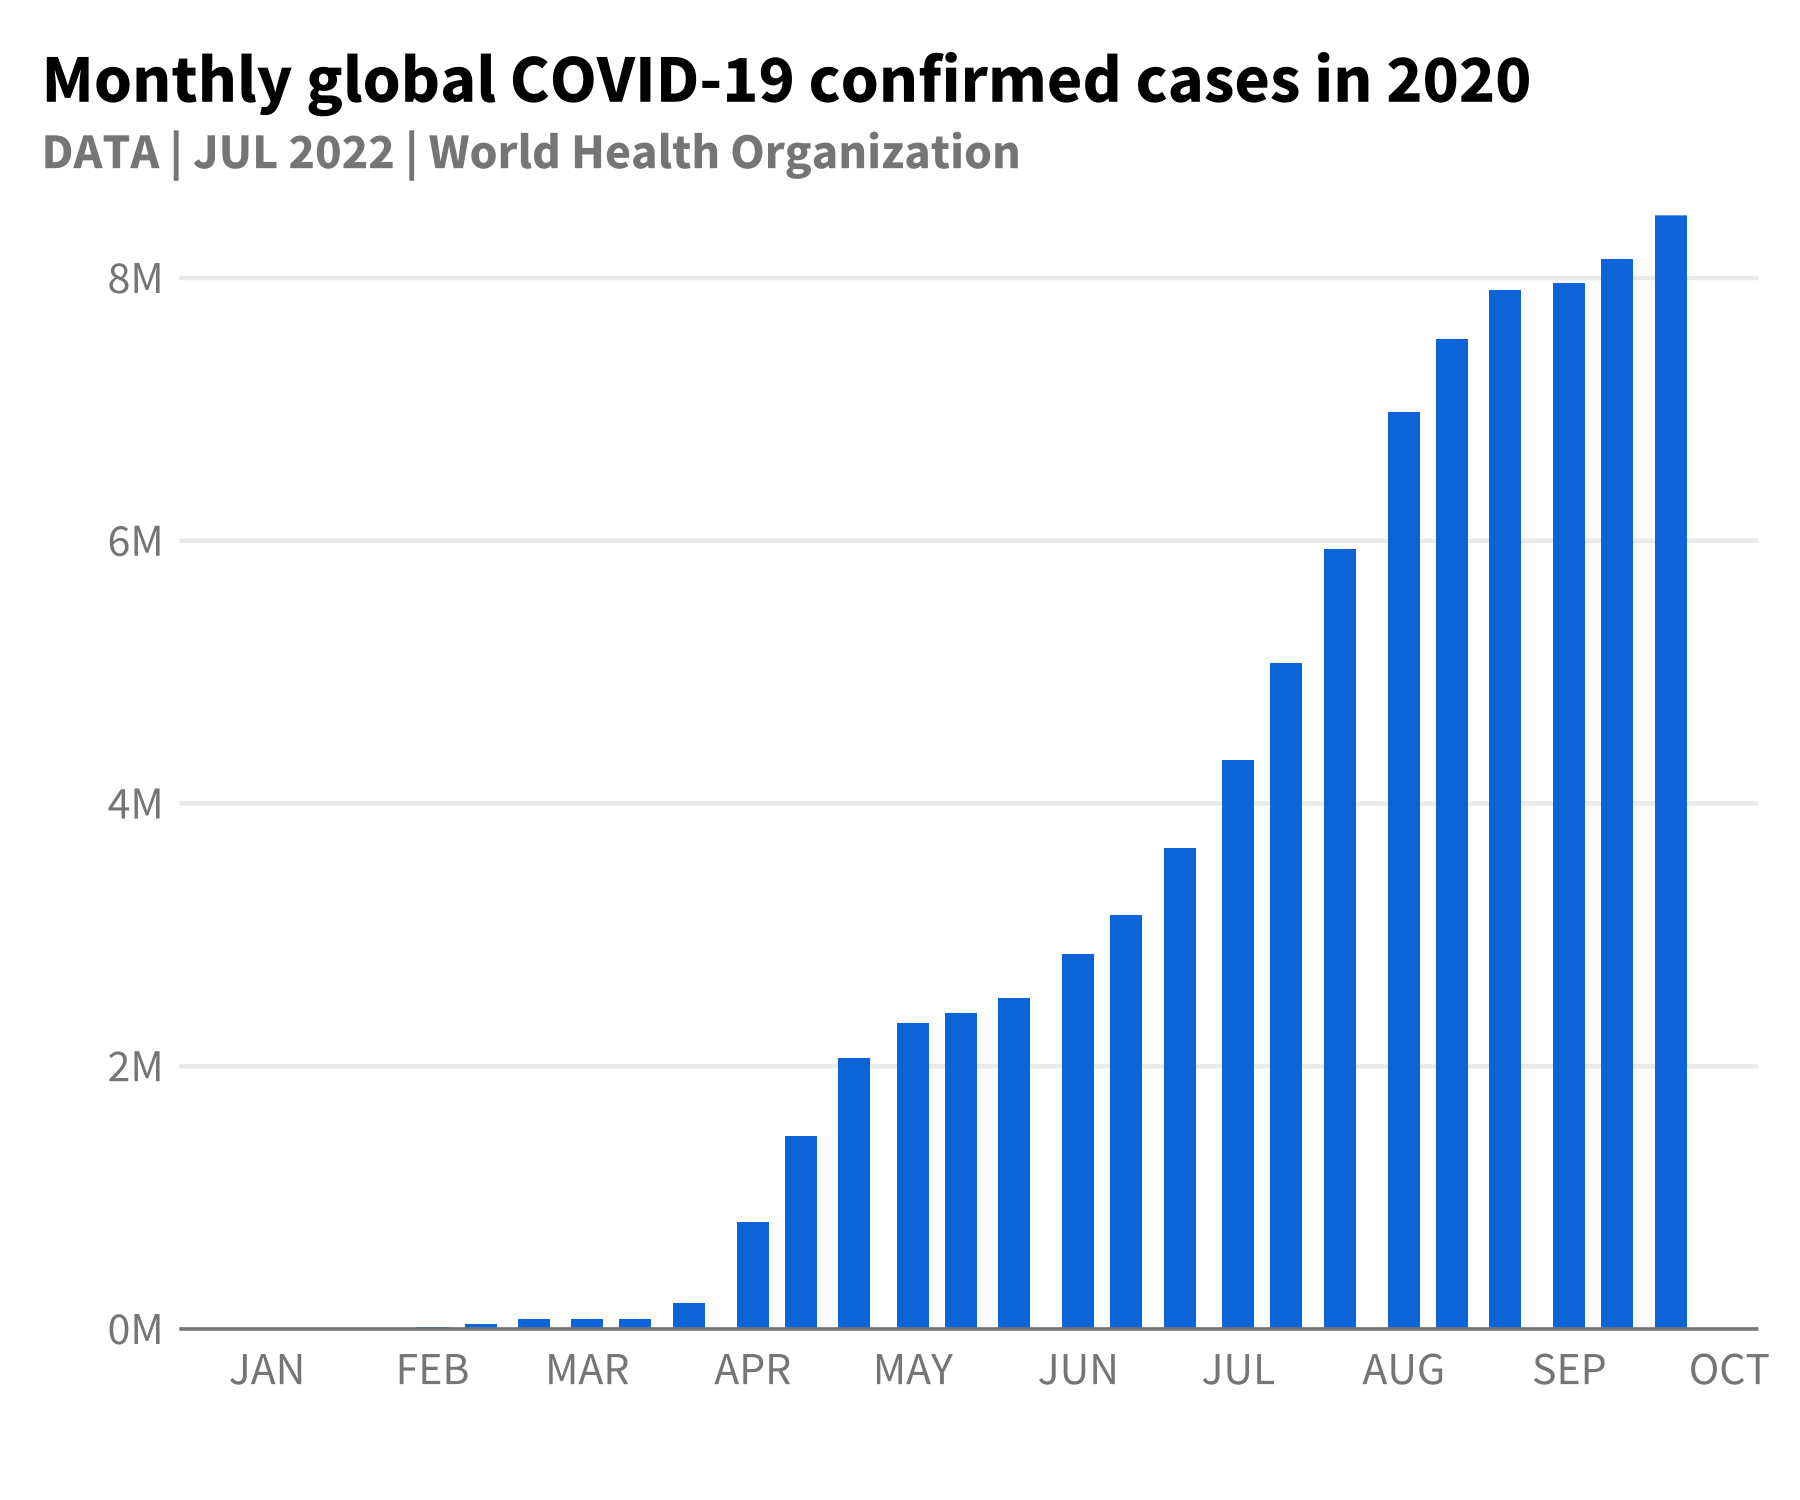
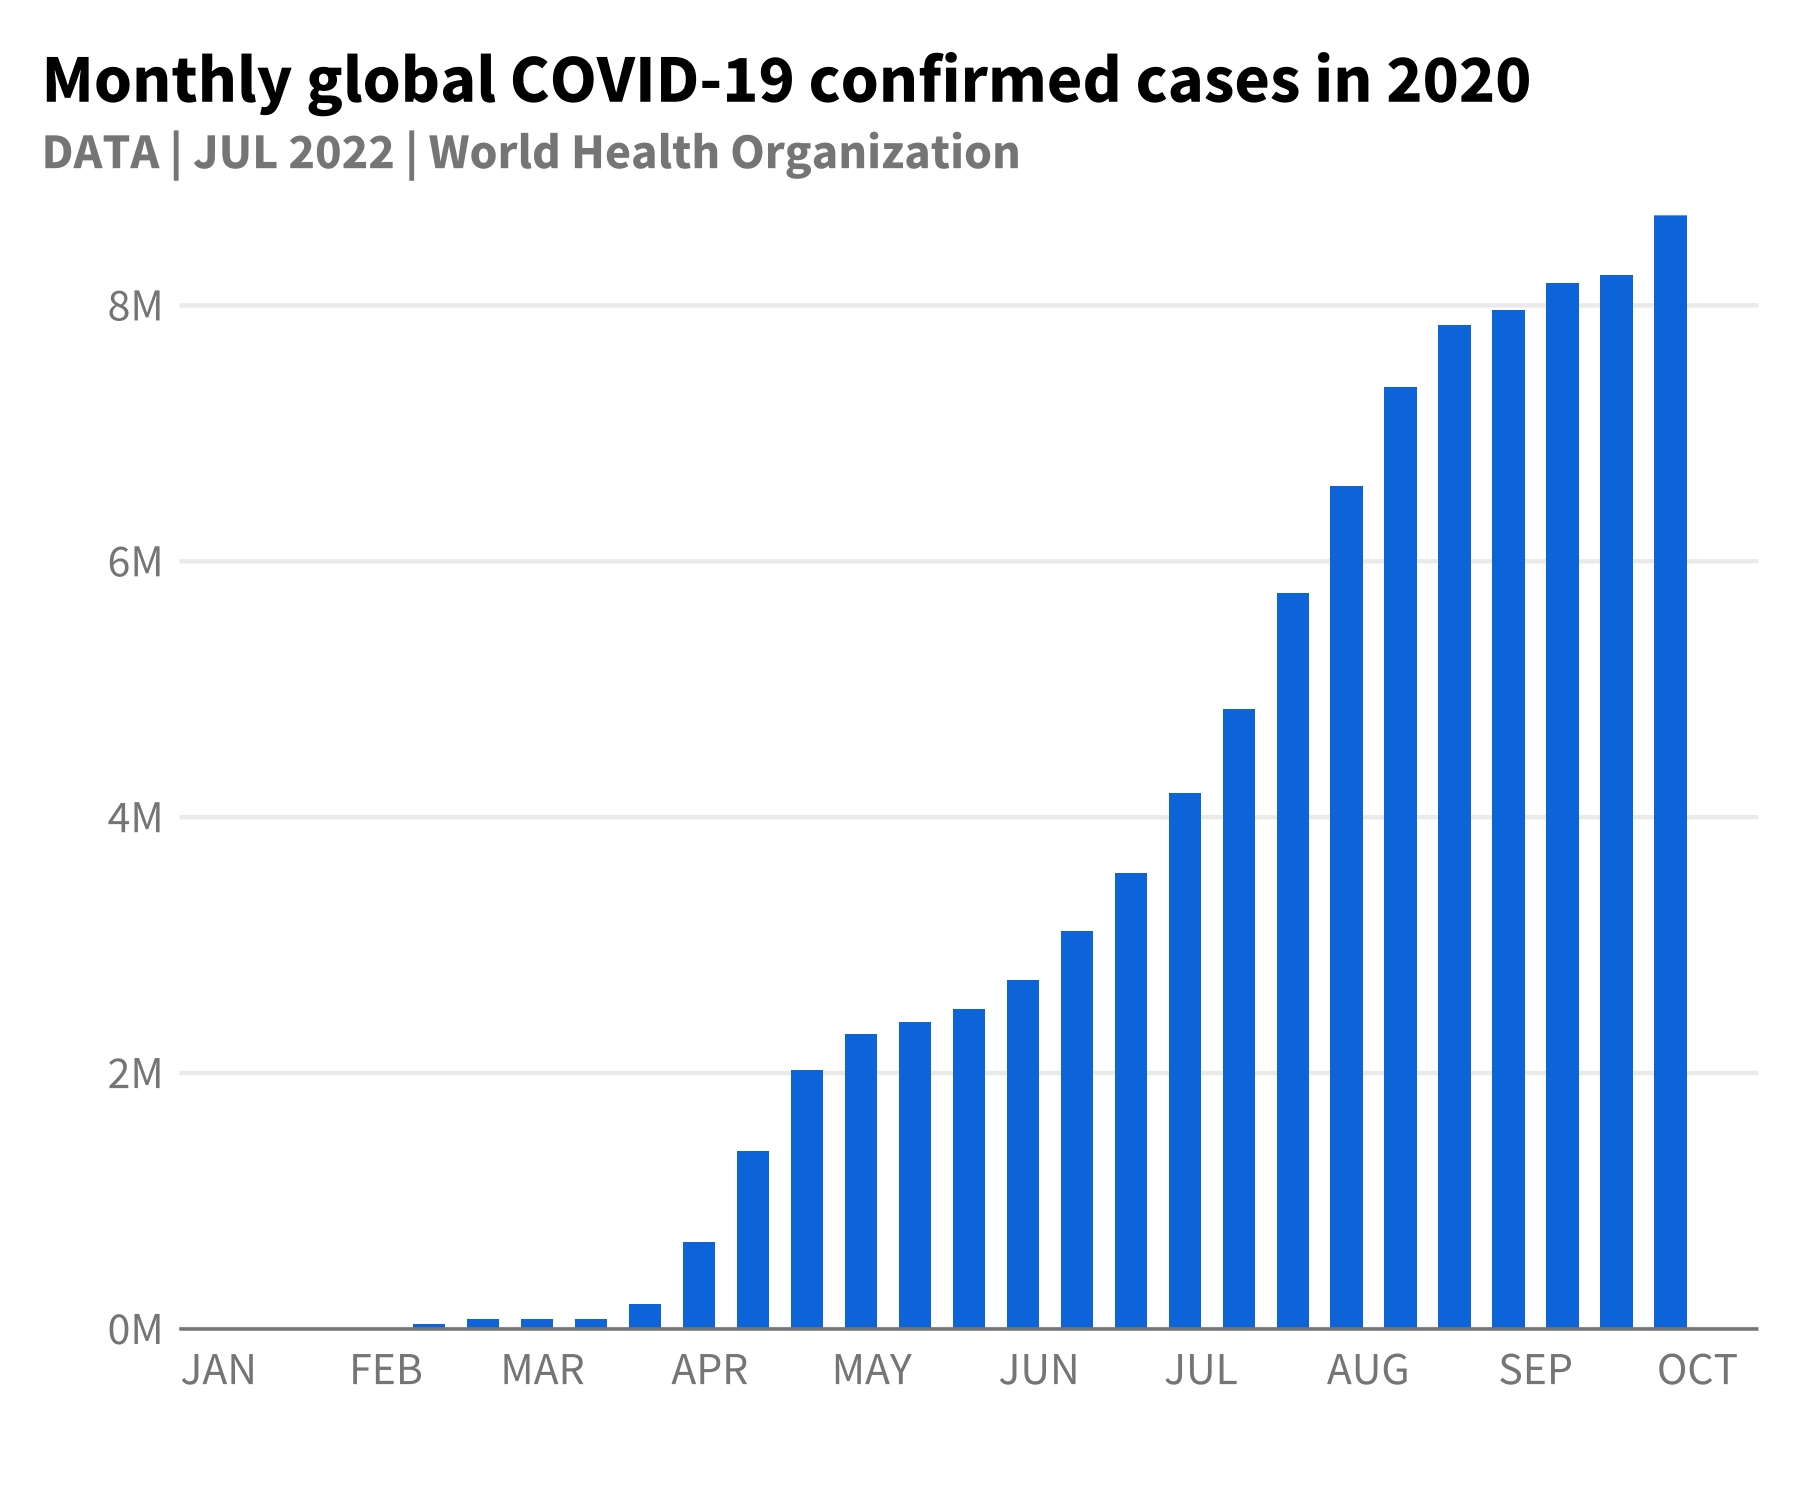
Update `df_covid` (#1)
* Update package data

* Add versioning to NEWS.md and DESCRIPTION

diff --git a/NEWS.md b/NEWS.md
@@ -1,3 +1,7 @@
+# gghdx 0.0.2
+
+* Cleaned `df_covid` for consistent days between dates on x-axis plots.
+
 # gghdx 0.0.1
 
 * Added a `NEWS.md` file to track changes to the package.
